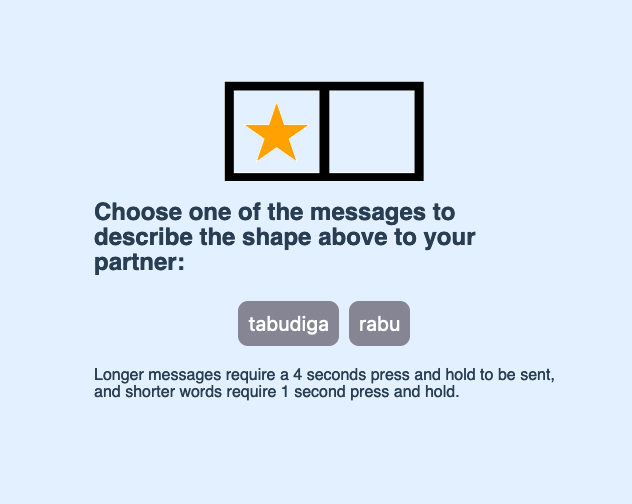
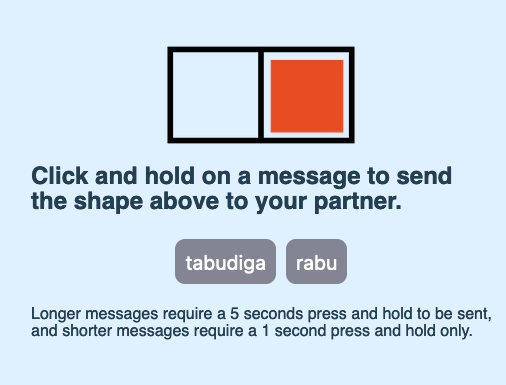
pre-trial 1 version

Changed region(s): [[0.0593, 0.5922, 0.9783, 0.9039], [0.0593, 0.4052, 0.8893, 0.561], [0.3261, 0.0935, 0.7115, 0.374]]

diff --git a/src/templates/description.html b/src/templates/description.html
@@ -15,6 +15,7 @@
             text-align: left;
             background-color: #e6f2ff;;
         }
+
 		main {
 			display: flex;
 			flex-direction: column;
@@ -23,6 +24,7 @@
 			margin-top: 50px;
 			margin-bottom: 50px;
 		}
+
 		img {
             /* center images */
             display: block;
@@ -30,6 +32,7 @@
             margin-right: auto;
 			max-width: 100%;
 		}
+
 		button {
 			display: none;
 			margin-top: 50px;
@@ -41,8 +44,13 @@
 			border-radius: 5px;
 			cursor: pointer;
 		}
+
 		button.show {
 			display: block;
+		}
+		
+		.stimuli {
+			max-width: 35%;
 		}
 	</style>
 </head>
@@ -50,18 +58,18 @@
 	<h1>Welcome to the game!</h1>
 
 	<p>In this game, you will be paired <b>with another participant (another Prolific person)</b> and you will play a communication game together. You will take turns exchanging messages, using novel words to communicate about shapes. <b>Your goal is to figure out a way to earn the maximum amount of points by successfully encoding and decoding messages with your partner.</b> During the game, you will be presented with images similar to the one below: </p>
-	<img src="/static/interface/S-l.png">
-	<p>This image consists of two elements: a star (the shape) and a box with two compartments, with the shape being placed on the right or on the left (the position). <b>As the sender, your task is to choose between two messages to describe the shape that you see on your screen to your partner.</b> You will be provided with two messages to choose between: in this example, it is rabu and tabudiga. You can only choose one of them to describe the shape to your partner. An example of the interface for this task is presented below:</p>
+	<img src="/static/interface/S-l.png" class="stimuli">
+	<p>This image consists of two elements: a square (the shape) and a box with two compartments, with the shape being placed on the right or on the left (the position). <b>As the sender, your task is to choose between two messages to describe the shape that you see on your screen to your partner.</b> You will be provided with two messages to choose between: in this example, it is <i>rabu</i> and <i>tabudiga</i>. You can only choose one of them to describe the shape to your partner. An example of the interface for this task is presented below:</p>
 
     <img src="/static/interface/sender.png">
 
-	<p>To send a longer message (tabudiga), press and hold for {{ cost_long }} seconds. For shorter messages (rabu), press and hold for {{ cost_short }} second. </p>
+	<p>To send a longer message (<i>tabudiga</i>), press and hold for {{ cost_long }} seconds. For shorter messages (<i>rabu</i>), press and hold for {{ cost_short }} second. </p>
 
 	<p>The goal of your partner acting as <b>receiver on this trial will be to guess the shape that you encoded by the message that you sent.</b> In addition to the message that you sent them, they will be provided with the position of the shape that you were shown (the red dot). The interface for the receiver looks like this:</p>
 
     <img src="/static/interface/receiver.png">
 
-	<p>If the receiver guesses correctly, you both get one point. If they guess incorrectly, neither of you gets any points! </p>
+	<p>If the receiver guesses correctly (if he clicks on the square), you both get one point, with each point adding 5 pence to your total reward. If they guess incorrectly, neither of you gets any points! </p>
 
 	<p>After every round  you and your partner switch roles: your partner will be the sender and you will be the receiver. You will be playing a total of {{ nrounds }} rounds.</p>
 
@@ -83,7 +91,7 @@
 
 		setTimeout(function() {
 			document.getElementById("continueBtn").style.display = "block";
-		}, 1000);
+		}, 0);
 
         // if continue button is clicked, emit continue event
         document.getElementById("continueBtn").addEventListener("click", function() {

diff --git a/src/templates/endgame.html b/src/templates/endgame.html
@@ -6,38 +6,37 @@
   </head>
   <body>
     <div class="top-row">
-      <h2 id="score" h2>
+      <h2 id="score"></h2>
       <h2>Thank you for your participation!</h2>
     </div>
     <!-- add text which will redirect users to the other website -->
     <div class="top-row">
-      <h2>Click <a href="https://app.prolific.co/submissions/complete?cc=CL3JJUUA">here</a> to confirm the completition of the experiment.</h2>
+      <h2>Click <a id="prolificLink" href="#">here</a> to confirm the completion of the experiment.</h2>
     </div>
     <script src="//cdnjs.cloudflare.com/ajax/libs/socket.io/4.4.1/socket.io.min.js"></script>
     <script src="//code.jquery.com/jquery-3.6.0.min.js"></script>
     <script>
-      
-        window.history.forward();
-        function disableBack() {
-          window.history.forward();
-        }
-        setTimeout("disableBack()", 0);
-        window.onunload = function () {
-          null;
-        };
+      // Disable refresh and back navigation
+      history.pushState(null, null, location.href);
+      window.addEventListener('popstate', function () {
+        history.pushState(null, null, location.href);
+      });
 
-        const socket = io();
+      const socket = io();
 
+      socket.on('connect', function() {
+        socket.emit('joinedEndGame');
+      });
 
-        socket.on('connect', function() {
-            socket.emit('joinedEndGame');
-        });
+      socket.on("score", function(data) {
+        const scoreDiv = document.getElementById("score");
+        scoreDiv.innerHTML = `The game has ended. Your final score is: ${data.score}`;
+      });
 
-        socket.on("score", function(data) {
-            const scoreDiv = document.getElementById("score");
-            scoreDiv.innerHTML = `The game has ended. Your final score is: ${data.score}`;
-        });
-
+      socket.on("prolificLink", function(link) {
+        const prolificLink = document.getElementById("prolificLink");
+        prolificLink.href = link;
+      });
     </script>
   </body>
 </html>

diff --git a/src/templates/sender.html b/src/templates/sender.html
@@ -1,6 +1,3 @@
-
-
-
 <!DOCTYPE html>
 <html>
   <head>
@@ -73,11 +70,11 @@
       // Receive 'stimulus' event and add image to the DOM
       socket.on('stimulus', function(data) {
         imgSrc = data.st;
-        document.getElementById('image').src = imgSrc;;
+        document.getElementById('image').src = imgSrc;
       });
 
       setTimeout(function() {
-        const reminderText = "Longer messages require a {{ cost_long // 1000 }} seconds press and hold to be sent, and shorter words require a {{ cost_short // 1000 }} second press and hold only.";
+        const reminderText = "Longer messages require a {{ cost_long // 1000 }} seconds press and hold to be sent, and shorter messages require a {{ cost_short // 1000 }} second press and hold only.";
         $('#reminder').text(reminderText);
       }, 0);
     </script>

diff --git a/src/templates/result.html b/src/templates/result.html
@@ -34,7 +34,7 @@
 
 			// Update the content on the page
 			var statusElement = document.getElementById('status');
-			if (message === 'Correct!') {
+			if (message === 'Correct! (+5p)') {
 				statusElement.innerHTML = message.bold().fontcolor('green').fontsize(150);
 			} else {
 				statusElement.innerHTML = message;

diff --git a/src/app.py b/src/app.py
@@ -10,9 +10,13 @@ from collections import defaultdict
 from game import Game
 import os
 
+# to-do
+# 1. instead of using game, put the global stuff in experiments[experiment_id]
+
 ### FLASK SETUP ###
 
 set = random.randint(0, 9)
+
 
 app = Flask(__name__)
 app.config['SECRET_KEY'] = 'fdhjdfkhv!JJJfdsjkkjnsd'
@@ -22,9 +26,12 @@ app.config['CONTEXT_FOLDER'] = os.path.join('static', 'context')
 
 ### GLOBAL ###
 
-NROUNDS = 10
+NROUNDS = 5
 COST_SHORT = 1
-COST_LONG = 7
+COST_LONG = 5
+
+LINK_BONUS = "https://app.prolific.co/submissions/complete?cc=CVUISTHW"
+LINK_NO_BONUS = "https://app.prolific.co/submissions/complete?cc=CLL9A10A"
 
 queue = []
 experiments = defaultdict(dict)
@@ -93,6 +100,7 @@ def endgame():
 
 @app.route('/timeout')
 def timeout():
+    # ig someone joins this page, pop them from the queue
     user = request.cookies.get('user')
     if user in queue:
         queue.remove(user)
@@ -112,10 +120,12 @@ def joined_waiting_room():
     - How to account for randomized stimuli? One way is to have n folders with identical 
     filenames and then randomly select one of the folders.
     '''
+    # global game 
     user = request.cookies.get('user')
     experiment_id = int(request.cookies.get('experiment_id'))
     experiments[experiment_id]['game'] = Game({'T': ['r'], 'C': ['l'], 'S': ['r', 'l']}, rounds=NROUNDS)
     while experiments[experiment_id]['sender'] is None:
+        # waiting for receiver to join 
         sleep(1)
     else:
         if experiments[experiment_id]['receiver'] == user:
@@ -129,11 +139,13 @@ def timer_done():
 
 @socketio.on('joinedStandBy')
 def joined_stand_by():
+    # if the user is the receiver, save sid to dict
     user = request.cookies.get('user')
     experiment_id = int(request.cookies.get('experiment_id'))
     game = experiments[experiment_id]['game']
     score = game.score
     round_number = game.current_round
+    # emit "updateScoreRound" with score and round number
     socketio.emit('updateScoreRound', {'score': score, 'round': round_number}, room=request.sid)
     if experiments[experiment_id]['receiver'] == user:
         experiments[experiment_id]['receiver_sid'] = request.sid
@@ -143,19 +155,34 @@ def joined_stand_by():
 
 @socketio.on('joinedSender')
 def joined_sender():
+    # global context
+    # global stimulus
+
     experiment_id = int(request.cookies.get('experiment_id'))
     game = experiments[experiment_id]['game']
     stimulus, context = game.generate_sc()
+
+    print(stimulus, context)
+
     socketio.emit('stimulus', {'st': os.path.join(app.config['STIMULI_FOLDER'], 
                                                   f'{stimulus}-{context}.png')}, room=request.sid)
 
 @socketio.on('buttonPressedSender')
 def button_pressed(button_id):
+    '''
+    To-do:
+
+    - Solve the issue with the receiver being redirected using the broadcast=True.
+    '''
+    # global word 
+
     user = request.cookies.get('user')
     experiment_id = int(request.cookies.get('experiment_id'))
     game = experiments[experiment_id]['game']
+
     button_ids = {1: 'rabu', 2: 'tabudiga'}
     game.log_word(button_ids[button_id])
+    # word = button_ids[button_id]
     experiment_id = int(request.cookies.get('experiment_id'))
     if experiments[experiment_id]['sender'] == user:
         socketio.emit('redirect', {'url': '/stand_by'}, room=request.sid)
@@ -179,7 +206,8 @@ def button_pressed(button_id):
     To-do:
 
     - Remove the global variables and put them into the game class. 
-    ''' 
+    '''
+    # # global stimulus_out 
     global old_sender
     global old_receiver
 
@@ -223,12 +251,21 @@ def joined_endgame():
     experiment_id = int(request.cookies.get('experiment_id'))
     game = experiments[experiment_id]['game']
     socketio.emit('score', {'score': game.score}, room=request.sid)
+    if game.score > 0:
+        socketio.emit('prolificLink', LINK_BONUS, room=request.sid)
+    else:
+        socketio.emit('prolificLink', LINK_NO_BONUS, room=request.sid)
+    # retreive names for both players
     receiver = experiments[experiment_id]['receiver']
     sender = experiments[experiment_id]['sender']
+    # retreive score
     score = game.score
+    # retrieve experiment id
     experiment_id = int(request.cookies.get('experiment_id'))
+    # save all of this information to logs/participants.csv
     with open('logs/participants.csv', 'a') as f:
         f.write(f'{experiment_id},{receiver},{sender},{score},set-{set}\n')
+
 
 if __name__ == '__main__':
     socketio.run(app, debug=False, port=9001)
